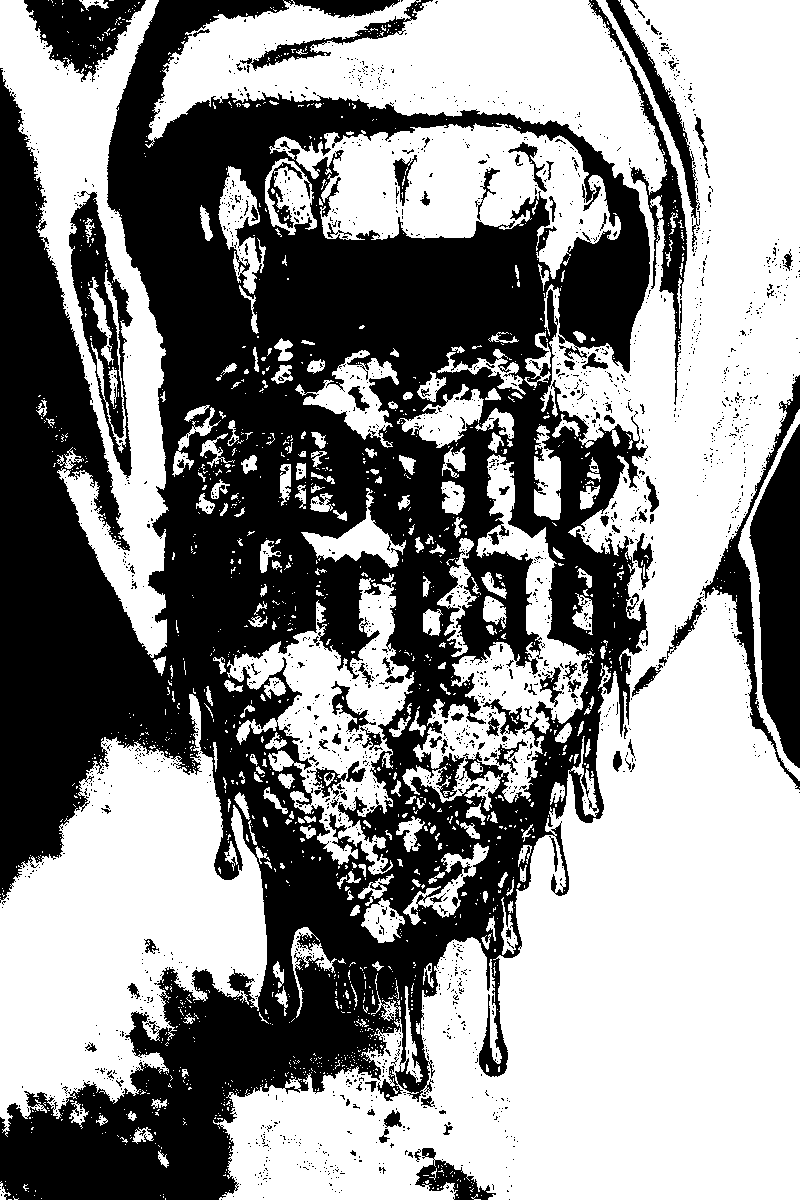
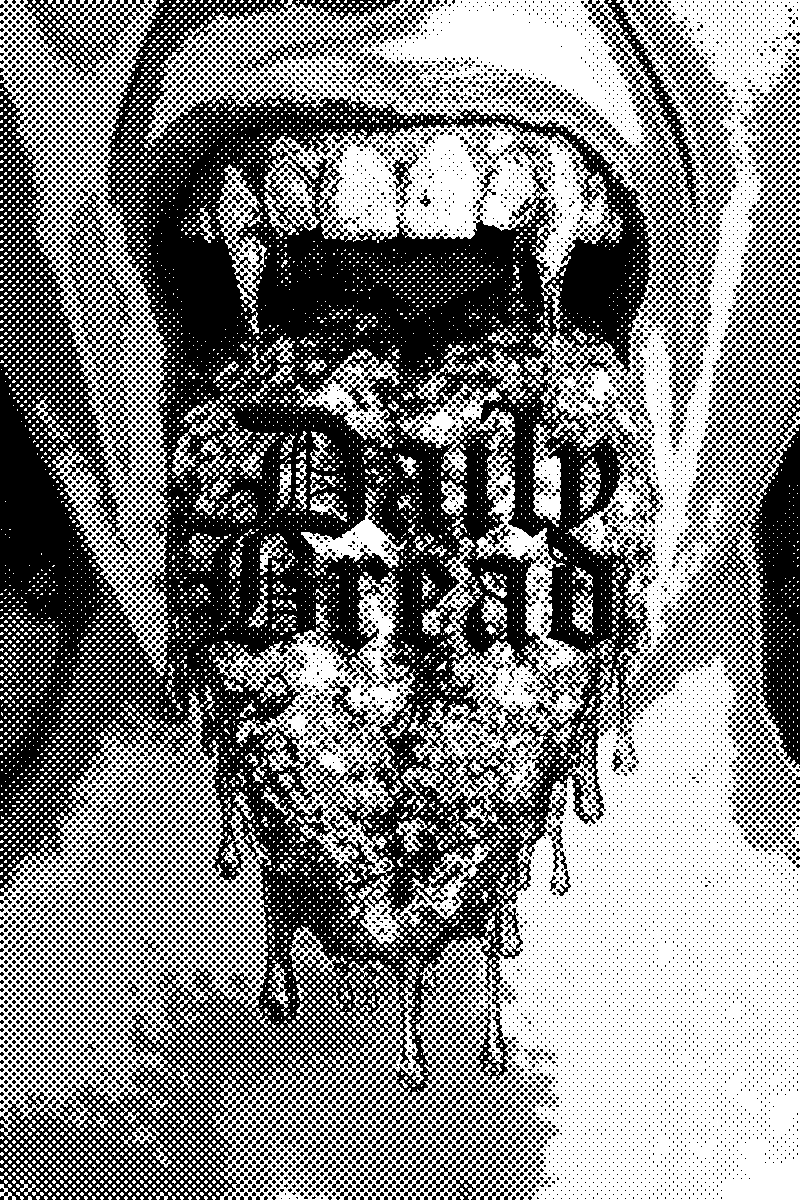
E-ink cover: newsprint AM halftone instead of Floyd-Steinberg
The 1-bit e-ink cover was a contrast-crushed Floyd-Steinberg pass, which
collapsed this cover's midtones (the dripping mouth) into black blotches
and lost the blackletter masthead. Switch to an ordered AM halftone screen
(newsprint dot), adapted from dead.garden's "How my images are dithered":
grayscale, a sigmoidal S-curve plus a highlight level for clean paper whites,
then an h8x8a halftone screen collapsed to true 1-bit. The result keeps the
tongue texture, teeth and masthead legible, reads as print (fitting for a
magazine), and still passes cleanly through a 1-bit panel.

tools/dither-cover.sh is now method-selectable (halftone | pink | fs); the
new `pink` method renders a riso-style pink-duotone halftone on the bone
paper stock using the brand pink, following the same blog's "pink palette".

Changed region(s): [[0.0, 0.0, 1.0, 1.0]]

diff --git a/tools/build.js b/tools/build.js
@@ -363,10 +363,10 @@ function page(code, variant){
   const L = LANGS.find(l=>l.code===code);
   const rtl = L.dir === 'rtl';
   const htmlCls = V.cls ? ` class="${V.cls}"` : '';
-  /* e-ink ships a pre-dithered 1-bit cover (Floyd–Steinberg) instead of the
-     colour JPEG: a continuous-tone photo would be hard-thresholded to blotches
-     by a 1-bit panel, and CSS grayscale() does not dither. Regenerate the asset
-     with tools/dither-cover.sh. full / lite keep the JPEG. */
+  /* e-ink ships a pre-dithered 1-bit cover (an AM halftone / newsprint screen)
+     instead of the colour JPEG: a continuous-tone photo would be hard-thresholded
+     to blotches by a 1-bit panel, and CSS grayscale() does not dither. Regenerate
+     the asset with tools/dither-cover.sh. full / lite keep the JPEG. */
   const cover = variant==='eink'
     ? { src:'/assets/cover-eink.png', w:800,  h:1200 }
     : { src:'/assets/cover.jpg',      w:1000, h:1500 };
